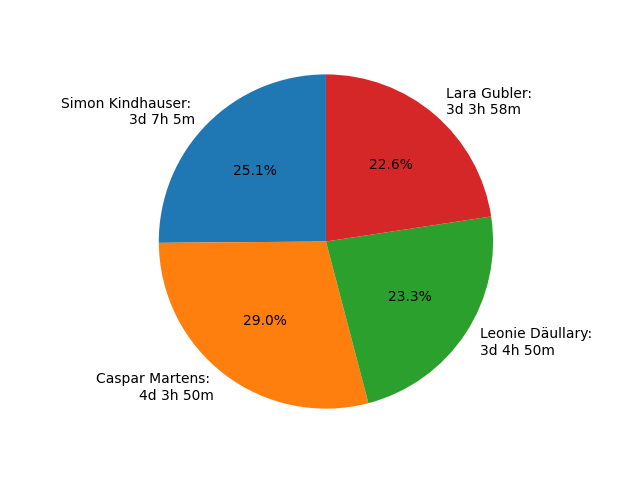
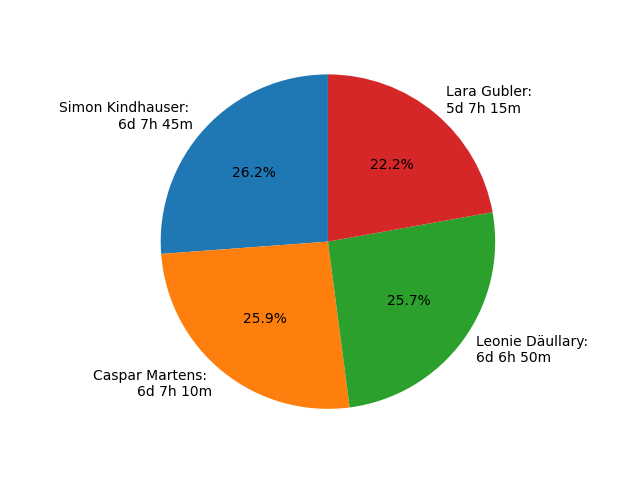
Add updated time charts

diff --git a/docs/source/time_management/time_tracking.rst b/docs/source/time_management/time_tracking.rst
@@ -9,3 +9,10 @@ Time spent per Team-Member
 .. image:: charts/hours_per_member.png
    :width: 400
    :alt: Time spent per Team-Member
+
+Comparison of estimate to time spent
+************************************
+
+.. image:: charts/estimate_spend_comparison.png
+   :width: 400
+   :alt: Comparison of estimate to time spent
